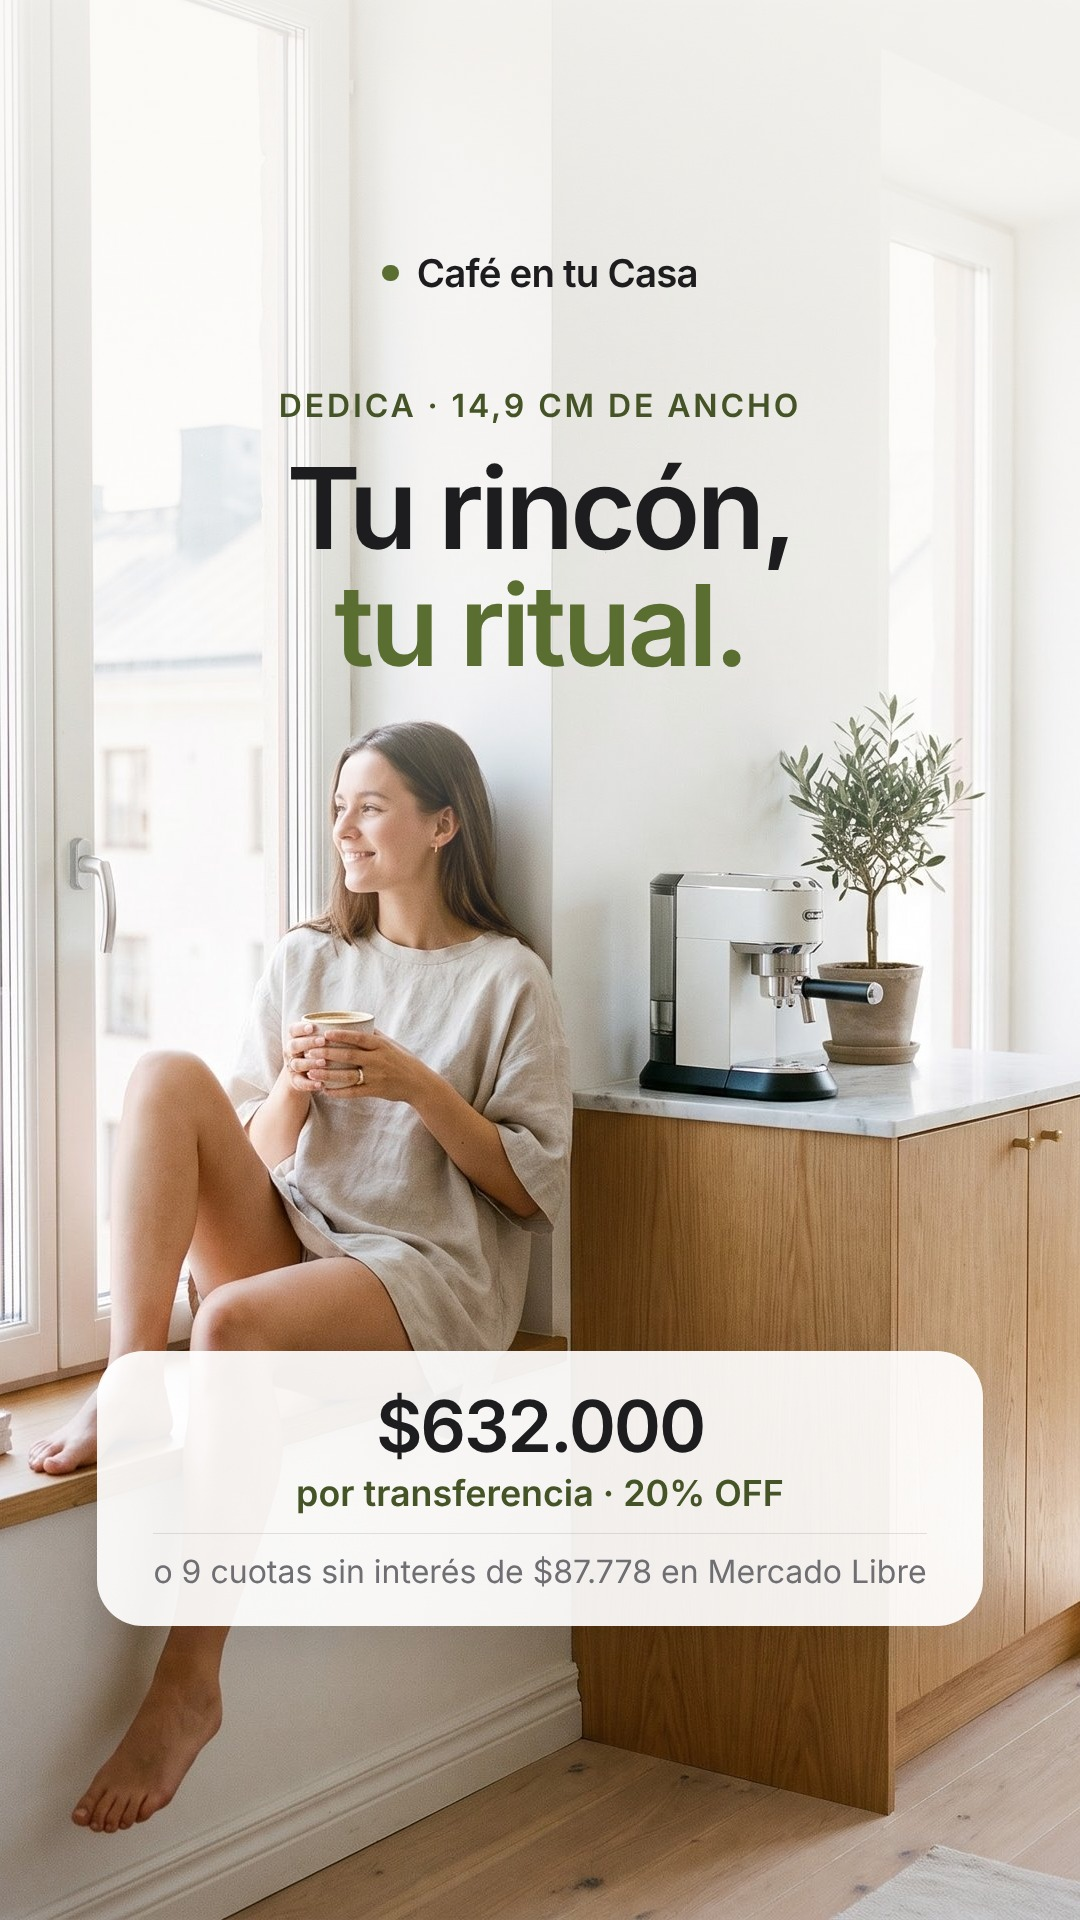
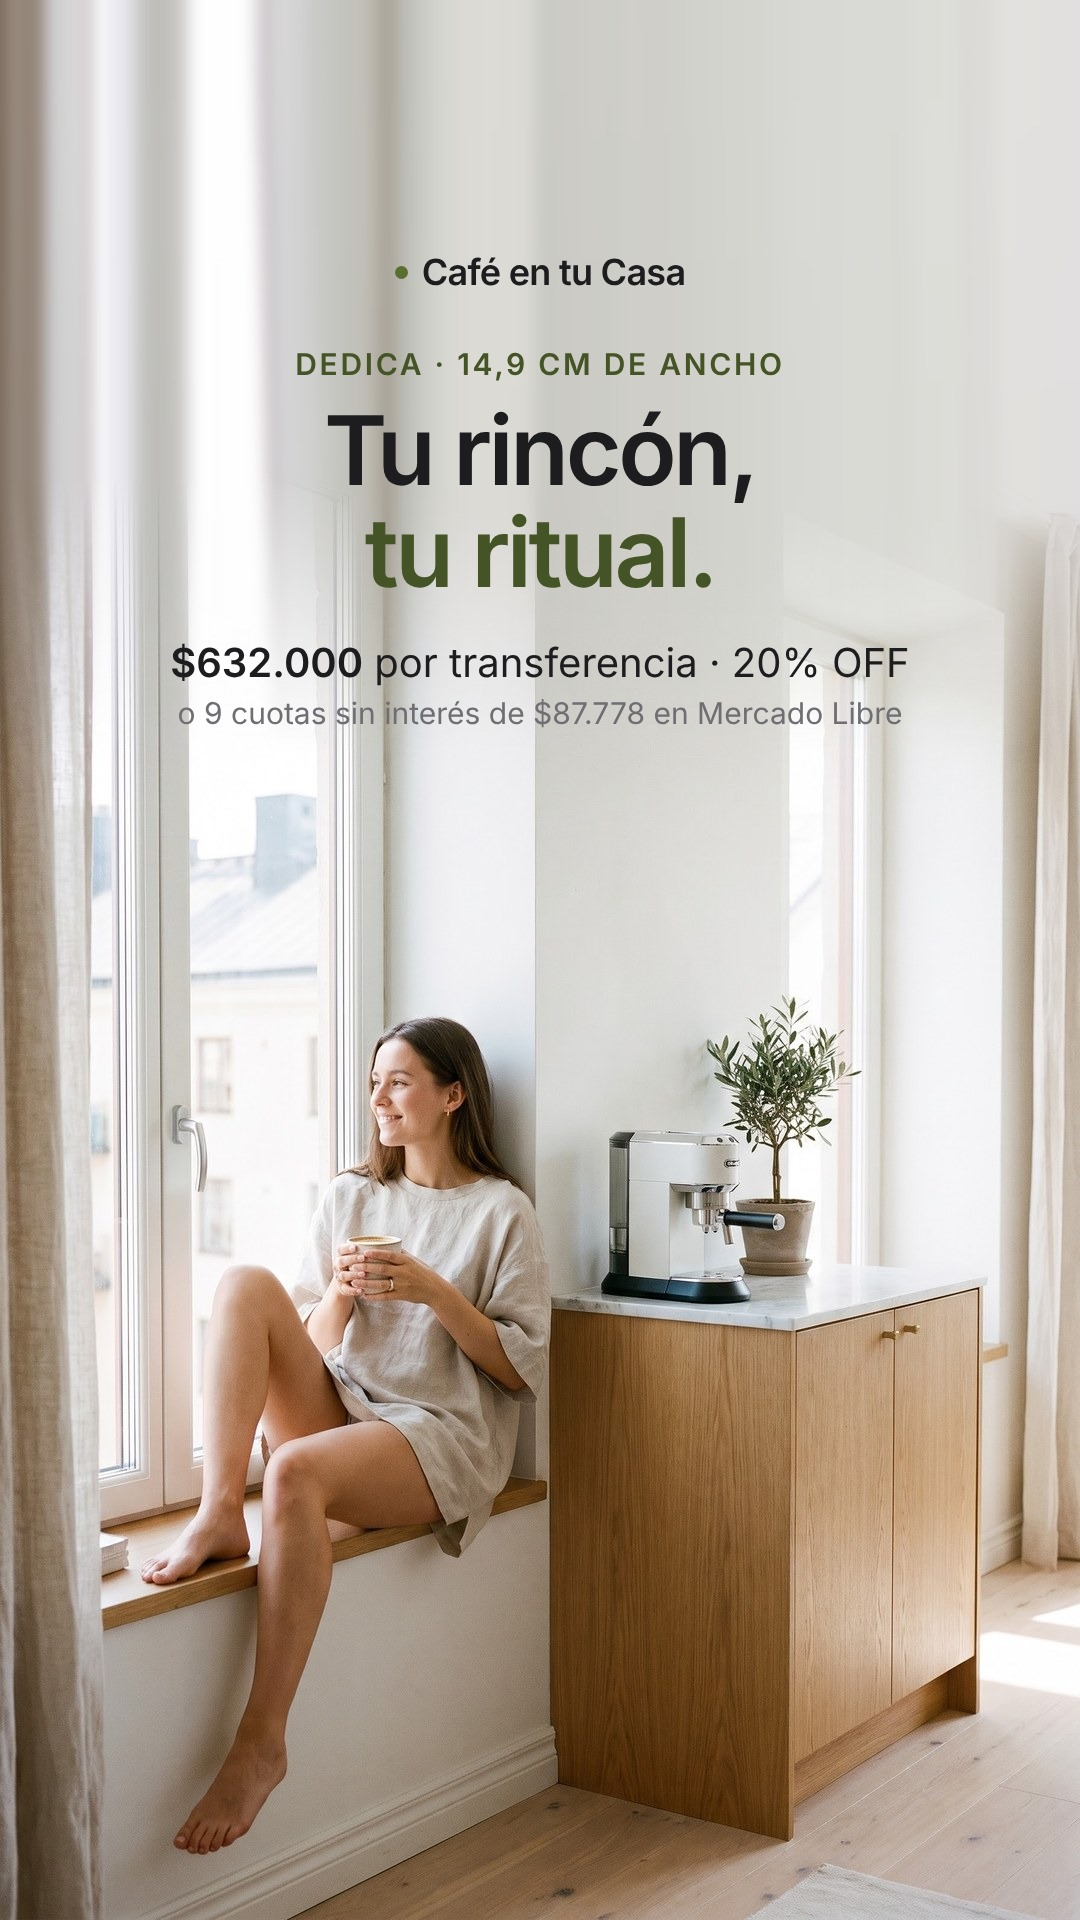
Historias con fotos: la foto entera sin velos ni tarjetas, texto sobre el aire de arriba
Las fotos de ambiente se pasan a 9:16 completando el techo con la misma foto
(instagram/extender-foto.py), así el texto no tapa nada.

Claude-Session: https://claude.ai/code/session_019YKpfrztqKhPwAz7rEXRyM

diff --git a/instagram/pieza.css b/instagram/pieza.css
@@ -97,28 +97,20 @@ h2 { font-size: 72px; font-weight: 600; line-height: 1.07; letter-spacing: -.03e
 .opciones div { border: 2px solid var(--linea); border-radius: 30px; padding: 34px; font-size: 40px; font-weight: 600; }
 .lienzo { position: relative; }
 
-/* escena: foto de ambiente a sangre, texto arriba sobre la parte clara de la foto */
+/* escena: foto de ambiente a sangre, ya llevada a 9:16 con cielo arriba (assets/img/escenas).
+   El texto va directo sobre esa parte limpia: sin velos ni tarjetas que tapen la foto. */
 .escena { justify-content: flex-start; }
 .escena .fondo { position: absolute; inset: 0; width: 100%; height: 100%; object-fit: cover; z-index: 0; }
-.escena::before { content: ''; position: absolute; inset: 0 0 auto; height: 52%; z-index: 1;
-  background: linear-gradient(rgba(250, 248, 244, .78), rgba(250, 248, 244, .45) 55%, rgba(250, 248, 244, 0)); }
-.escena.oscuro::before { background: linear-gradient(rgba(16, 16, 18, .72), rgba(16, 16, 18, .4) 55%, rgba(16, 16, 18, 0)); }
-.escena > .marca, .escena > main { position: relative; z-index: 2; }
-.escena main { justify-content: flex-start; padding-top: 70px; }
-.escena .ep { color: var(--brand-dark); }
+.escena > .marca, .escena > main { position: relative; z-index: 1; }
+.lienzo.escena .marca, .lienzo.escena main { zoom: 1; }
+.escena .marca { font-size: 36px; }
+.escena main { flex: none; justify-content: flex-start; padding: 52px 0 0; }
+.escena .ep { font-size: 30px; color: var(--brand-dark); margin-bottom: 18px; }
+.escena h1 { font-size: 96px; line-height: 1.06; }
+.escena h1 em { font-style: normal; color: var(--brand-dark); }
+.escena .precio { margin-top: 34px; font-size: 40px; color: var(--ink); }
+.escena .precio b { font-weight: 600; }
+.escena .cuotas { margin-top: 8px; font-size: 30px; color: var(--ink-2); }
 .escena.oscuro .ep { color: #c5dd96; }
-.escena h1 { font-size: 88px; }
-.escena h1 em { font-style: normal; color: var(--brand); }
 .escena.oscuro h1 em { color: #c5dd96; }
-.escena .sub, .escena .p { color: var(--ink); }
-.escena.oscuro .sub, .escena.oscuro .p { color: #f5f5f7; }
-.escena .abajo { margin-top: auto; display: flex; flex-direction: column; align-items: center; }
-.escena .precio { background: rgba(255, 255, 255, .92); border-radius: 36px; padding: 28px 44px; color: var(--ink);
-  box-shadow: 0 10px 40px rgba(0, 0, 0, .12); }
-.escena .precio b { display: block; font-size: 56px; font-weight: 600; letter-spacing: -.03em; line-height: 1.1; }
-.escena .precio small { display: block; margin-top: 4px; font-size: 28px; font-weight: 600; color: var(--brand-dark); }
-.escena .precio span { display: block; margin-top: 14px; padding-top: 14px; border-top: 1px solid var(--linea); font-size: 25px; color: var(--ink-2); white-space: nowrap; }
-/* más velo cuando atrás del título hay algo cargado (un cuadro, luces) */
-.escena.velo-fuerte::before { height: 46%; background: linear-gradient(rgba(250, 248, 244, .93), rgba(250, 248, 244, .82) 60%, rgba(250, 248, 244, 0)); }
-.escena.oscuro.velo-fuerte::before { height: 46%; background: linear-gradient(rgba(16, 16, 18, .9), rgba(16, 16, 18, .75) 60%, rgba(16, 16, 18, 0)); }
-.escena .boton { margin-top: 24px; }
+.escena.oscuro .precio { color: #f5f5f7; }

diff --git a/instagram/contenido.js b/instagram/contenido.js
@@ -486,19 +486,19 @@ const PIEZAS = [
     ]
   },
 
-  /* ======================= Historias con fotos de ambiente (29/10) ======================= */
+  /* ======================= Historias con fotos de ambiente (29/10) =======================
+     Las fotos de assets/img/escenas ya están en 9:16 con aire arriba para el texto. */
   {
     id: 'x3-historia-magnifica-casa', semana: 6, dia: 'A definir', tipo: 'historia',
     titulo: 'Magnifica S en casa (fotos de ambiente)',
     caption: '',
     placas: [
-      { t: 'escena', img: 'assets/img/escenas/magnifica-desayuno.jpg', encuadre: '62% center',
-        ep: M.modelo, h: 'Ellos desayunan.<br><em>Tu café ya está.</em>' },
-      { t: 'escena', img: 'assets/img/escenas/magnifica-mueble.jpg', encuadre: '55% center', velo: 'fuerte',
-        ep: M.etiqueta, h: 'Recién molido,<br><em>con un botón.</em>',
+      { t: 'escena', img: 'assets/img/escenas/magnifica-mueble.jpg',
+        ep: M.modelo, h: 'Recién molido,<br><em>con un botón.</em>' },
+      { t: 'escena', img: 'assets/img/escenas/magnifica-desayuno.jpg',
+        ep: M.etiqueta, h: 'Ellos desayunan.<br><em>Tu café ya está.</em>',
         precio: fmt(P.transferencia(M)), nota: `por transferencia · ${OFF}% OFF`,
-        cuotas: `o ${M.cuotas} cuotas sin interés de ${fmt(P.cuota(M))} en Mercado Libre`,
-        boton: 'Escribinos · link en la bio' }
+        cuotas: `o ${M.cuotas} cuotas sin interés de ${fmt(P.cuota(M))} en Mercado Libre` }
     ]
   },
   {
@@ -506,11 +506,11 @@ const PIEZAS = [
     titulo: 'Dedica + encuesta ¿Magnifica S o Dedica?',
     caption: '',
     placas: [
-      { t: 'escena', img: 'assets/img/escenas/dedica-ventana.jpg', encuadre: '45% center',
+      { t: 'escena', img: 'assets/img/escenas/dedica-ventana.jpg',
         ep: `${D.modelo.split(' ')[0]} · ${cm(D.medidas.ancho)} de ancho`, h: 'Tu rincón,<br><em>tu ritual.</em>',
         precio: fmt(P.transferencia(D)), nota: `por transferencia · ${OFF}% OFF`,
         cuotas: `o ${D.cuotas} cuotas sin interés de ${fmt(P.cuota(D))} en Mercado Libre` },
-      { t: 'escena', tono: 'oscuro', img: 'assets/img/escenas/magnifica-estudio.jpg', encuadre: '40% center', velo: 'fuerte',
+      { t: 'escena', tono: 'oscuro', img: 'assets/img/escenas/magnifica-estudio.jpg',
         ep: 'Encuesta · votá abajo 👇', h: `¿${M.modelo}<br><em>o ${D.modelo.split(' ')[0]}?</em>` }
     ]
   }

diff --git a/instagram/pieza.js b/instagram/pieza.js
@@ -23,10 +23,9 @@ const CUERPO = {
              `<div class="barra ${i[3] ? 'suave' : ''}"><div>${i[0]}<span>${i[1]}</span></div><u style="width:${Math.max(3, i[2] / max * 100)}%"></u></div>`).join('')}</div>${par(s.p)}`; },
   opciones:s => `${ep(s.ep)}<h2>${s.h}</h2><div class="opciones">${s.ops.map(o => `<div>${o}</div>`).join('')}</div>${par(s.p)}`,
   cta:     s => `${ep(s.ep)}<h1>${s.h}</h1>${sub(s.sub)}<p class="boton">${s.boton}</p>`,
-  // foto de ambiente a sangre: el texto arriba, el precio (opcional) abajo
-  escena:  s => `${ep(s.ep)}<h1>${s.h}</h1>${sub(s.sub)}${par(s.p)}<div class="abajo">${
-             s.precio ? `<div class="precio"><b>${s.precio}</b><small>${s.nota}</small>${s.cuotas ? `<span>${s.cuotas}</span>` : ''}</div>` : ''}${
-             s.boton ? `<p class="boton">${s.boton}</p>` : ''}</div>`
+  // foto de ambiente a sangre: el texto arriba, sobre la parte limpia de la foto
+  escena:  s => `${ep(s.ep)}<h1>${s.h}</h1>${s.precio ? `<p class="precio"><b>${s.precio}</b> ${s.nota}</p>` : ''}${
+             s.cuotas ? `<p class="cuotas">${s.cuotas}</p>` : ''}`
 };
 
 /** Una placa entera: el lienzo con la marca, el cuerpo y los puntitos del carrusel. */
@@ -37,7 +36,7 @@ function placaHTML(pieza, n) {
     ? `<div class="pie">${pieza.placas.map((_, i) => `<b class="${i === n ? 'on' : ''}"></b>`).join('')}${n === 0 ? '<span>Deslizá →</span>' : ''}</div>`
     : '';
   const fondo = s.t === 'escena'
-    ? `<img class="fondo" src="../${s.img}" alt="" style="object-position:${s.encuadre || 'center'}">` : '';
-  return `<div class="lienzo ${vertical ? 'vertical' : ''} ${s.tono || ''} ${s.t === 'escena' ? 'escena' : ''} ${s.velo ? 'velo-' + s.velo : ''}">${fondo}
+    ? `<img class="fondo" src="../${s.img}" alt="">` : '';
+  return `<div class="lienzo ${vertical ? 'vertical' : ''} ${s.tono || ''} ${s.t === 'escena' ? 'escena' : ''}">${fondo}
     <div class="marca"><i></i> Café en tu Casa</div><main>${CUERPO[s.t](s)}</main>${puntos}</div>`;
 }

diff --git a/instagram/extender-foto.py b/instagram/extender-foto.py
@@ -1,0 +1,16 @@
+"""Pasa una foto 3:4 a 9:16 sin recortarla: la foto va abajo y el cielo de arriba
+se completa estirando y desenfocando la franja superior de la misma foto."""
+import sys
+from PIL import Image, ImageFilter
+src, out, top = sys.argv[1], sys.argv[2], int(sys.argv[3])
+W, H = 1080, 1920
+foto = Image.open(src).convert('RGB')
+foto = foto.resize((W, round(foto.height * W / foto.width)), Image.LANCZOS)
+lienzo = Image.new('RGB', (W, H))
+franja = foto.crop((0, 0, W, 6)).resize((W, top + 300), Image.BICUBIC).filter(ImageFilter.GaussianBlur(8))
+lienzo.paste(franja, (0, 0))
+fundido = 280
+mascara = Image.linear_gradient('L').resize((W, fundido))
+m = Image.new('L', foto.size, 255); m.paste(mascara, (0, 0))
+lienzo.paste(foto, (0, top), m)
+lienzo.save(out, quality=88, optimize=True)
